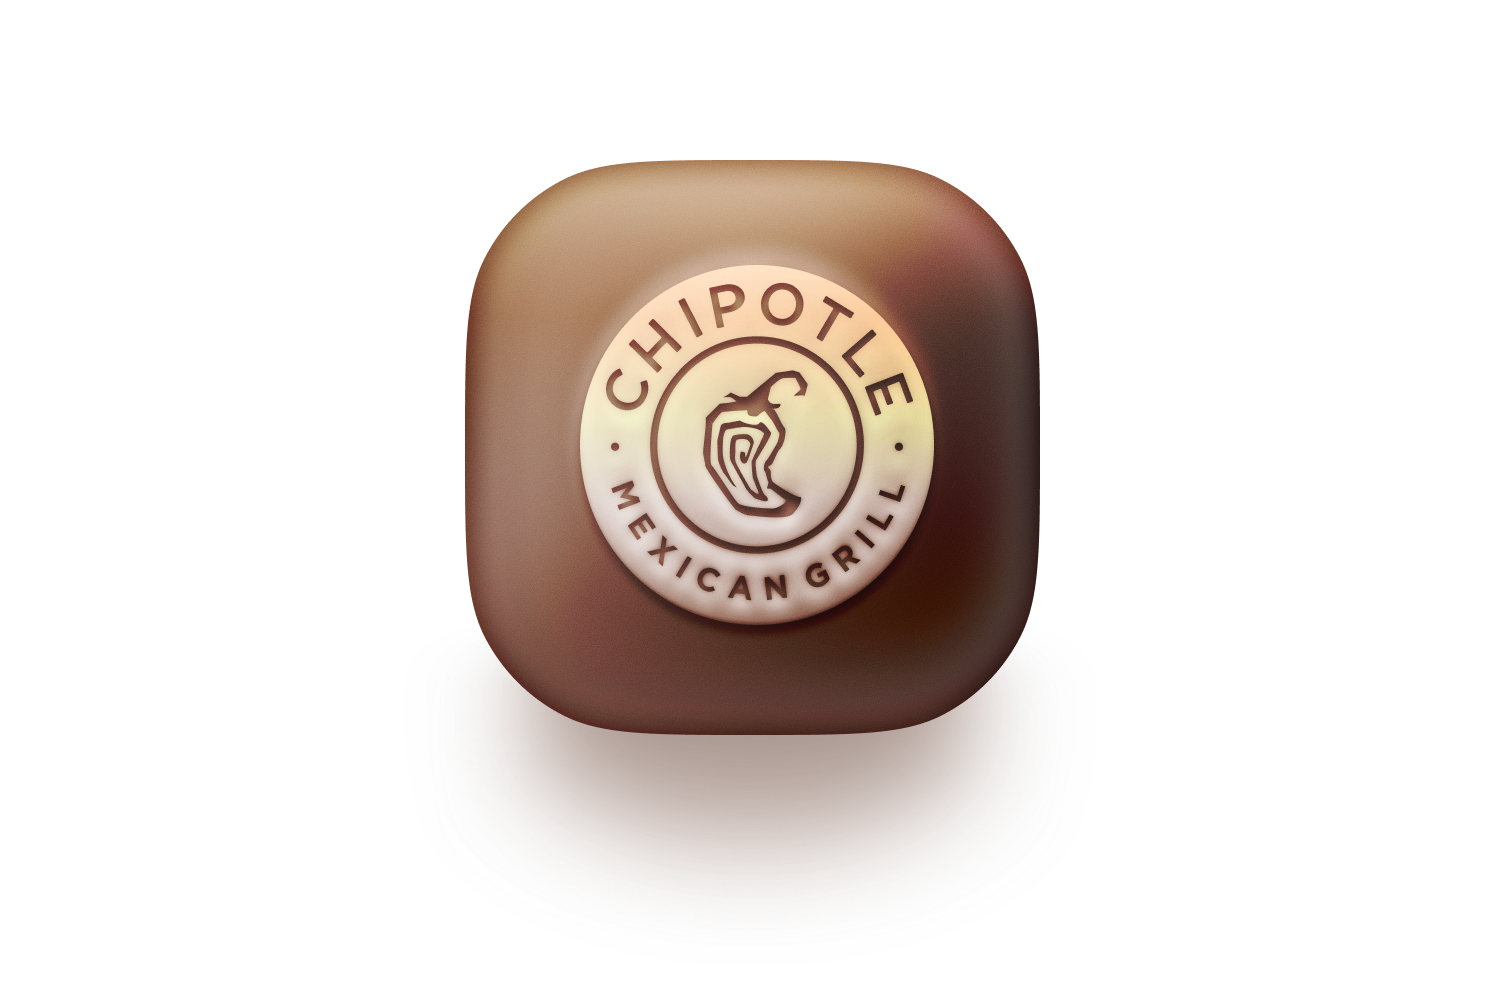
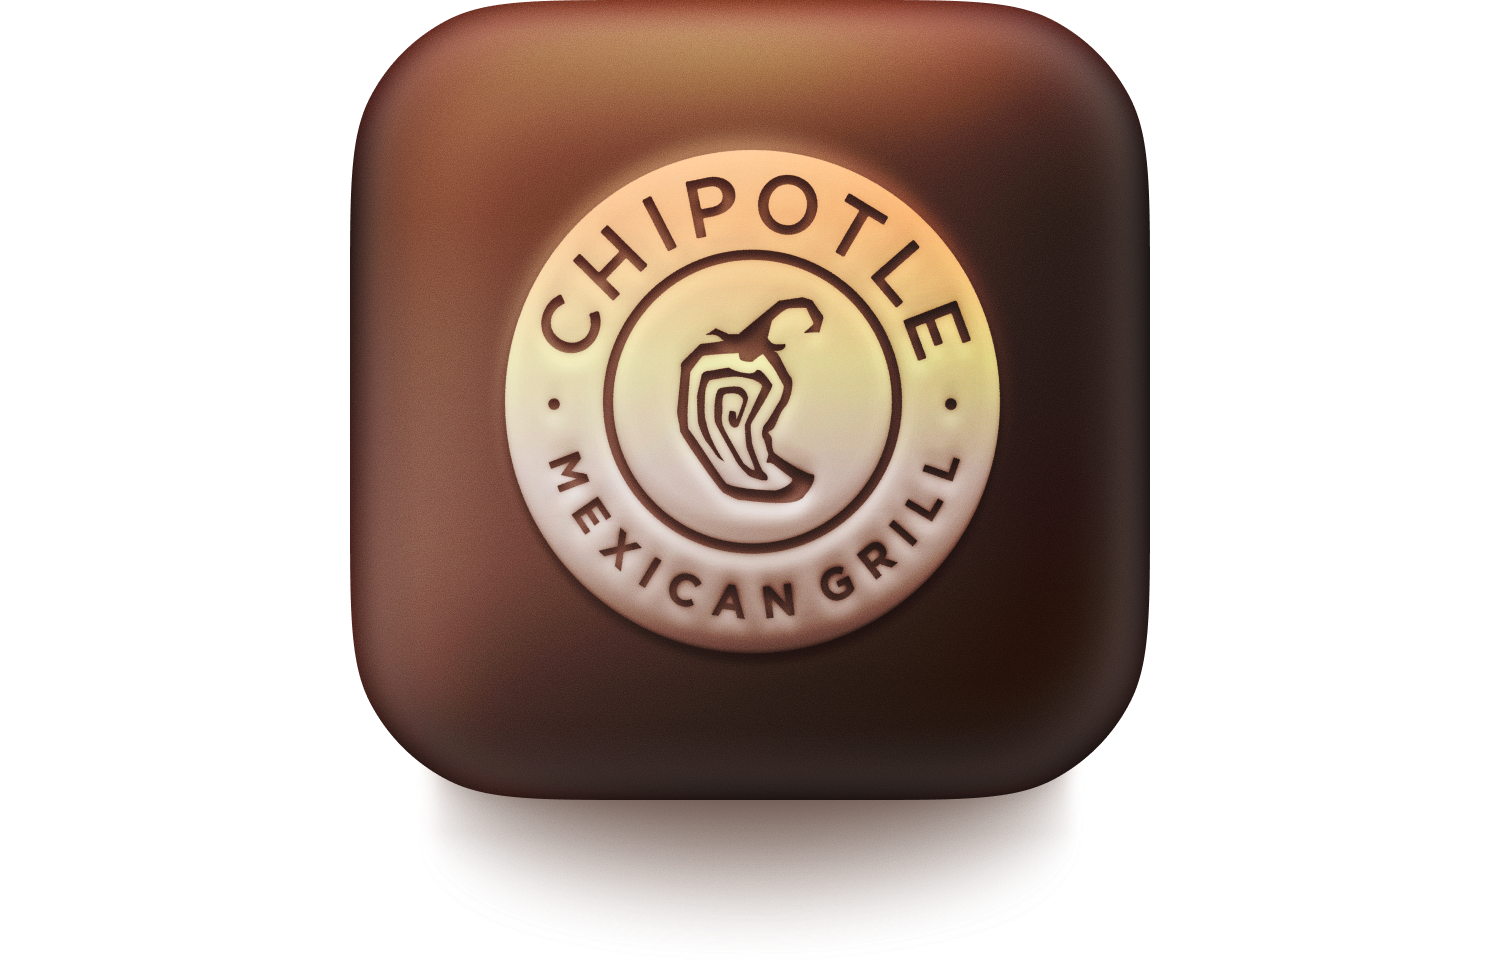
Remove hover dimming effect from SentCard4

diff --git a/components/SentCard4.jsx b/components/SentCard4.jsx
@@ -79,6 +79,7 @@ const SentCard4 = ({
         borderRadius: TOKENS.sizes.borderRadius.card
       }}
       data-name="Gift Card"
+      data-card-type="sent-single"
     >
       <div className="content-stretch flex flex-col items-start overflow-hidden relative rounded-[inherit] size-full">
         {/* Background with gradient overlay - extends to full card */}
@@ -94,8 +95,7 @@ const SentCard4 = ({
             className="absolute inset-0"
             data-name="HeaderBGBase"
             style={{
-              backgroundColor: headerBgOverride || '#E3E7ED',
-              transition: 'background 200ms ease-out, filter 200ms ease-out'
+              backgroundColor: headerBgOverride || '#E3E7ED'
             }}
           />
           {/* Gradient overlay with blend mode */}
@@ -209,8 +209,8 @@ const SentCard4 = ({
             <div
               className="relative"
               style={{
-                width: '220px',
-                height: '150px',
+                width: '250px',
+                height: '160px',
                 zIndex: 1,
                 pointerEvents: 'none',
                 position: 'relative'

diff --git a/app/globals.css b/app/globals.css
@@ -4,6 +4,12 @@
   background: none;
 }
 
+/* Exclude SentCard4 (sent-single) from hover dimming */
+[data-card-type="sent-single"]:hover [data-name="HeaderBGBase"] {
+  filter: none;
+  background: none;
+}
+
 /* Monochrome variant hover gradient */
 [data-variant="mono"][data-name="Gift Card"]:hover [data-name="HeaderBGBase"] {
   filter: none;
